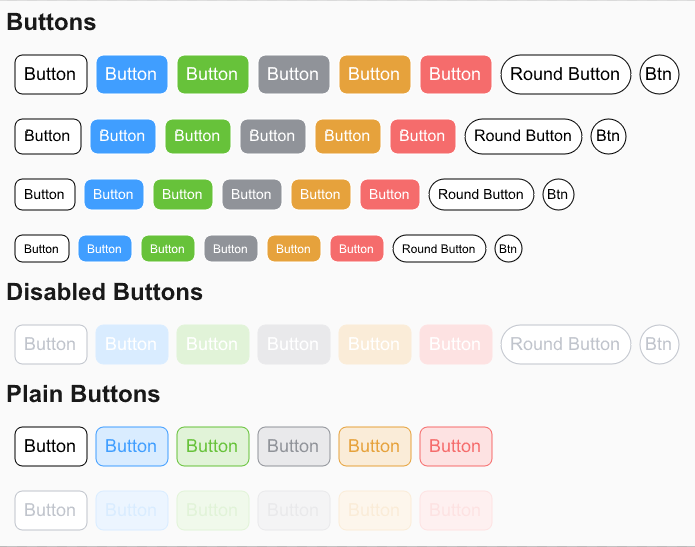
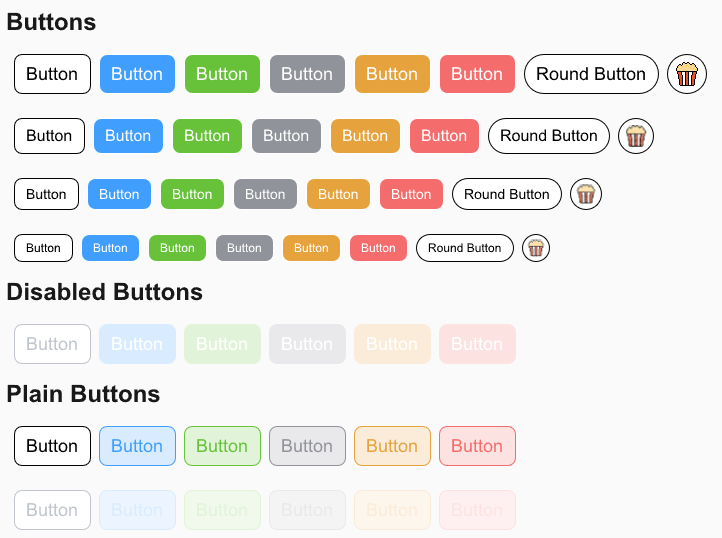
Update button example

diff --git a/README.md b/README.md
@@ -1,25 +1,29 @@
 # Slint UI Component Library
+
 >
 
 Color scheme from element UI
 
-### Buttons
+### Button Example
 
 ![img.png](images/buttons.png)
 
 #### Attributes
 
-| Attribute | Description | type        | Default | Accepted values                             |
-|-----------|-------------|-------------|---------|---------------------------------------------|
-| size      | button size | ButtonSize  | Default | Default,Medium ,Small ,Mini                 |
-| type      | button size | ButtonType  | Default | Default,Primary,Success,Info,Warning,Danger |
-| round     | button size | ButtonRound | Default | Default,Round,Circle                        |
-| disabled  | button size | bool        | false   |                                             |
-| plain     | button size | bool        | false   |                                             |
+| Attribute | Description         | type        | Default | Accepted values                             |
+|-----------|---------------------|-------------|---------|---------------------------------------------|
+| size      | size                | ButtonSize  | Default | Default,Medium ,Small ,Mini                 |
+| type      | Preset color        | ButtonType  | Default | Default,Primary,Success,Info,Warning,Danger |
+| round     | Round corner        | ButtonRound | Default | Default,Round,Circle                        |
+| disabled  | Is it disabled      | bool        | false   |                                             |
+| plain     | Is it plain         | bool        | false   |                                             |
+| text      | Button display text | string      |         |                                             |
+| icon      | Button display icon | @image-url  |         |                                             |
 
 ```slint
 component example{
     Button {
+        text: "Button";
         size: ButtonSize.Default;
         type: ButtonType.Default;
         plain: false;
